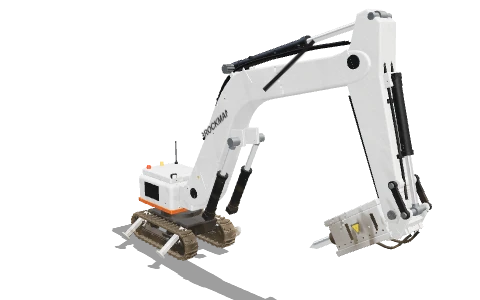
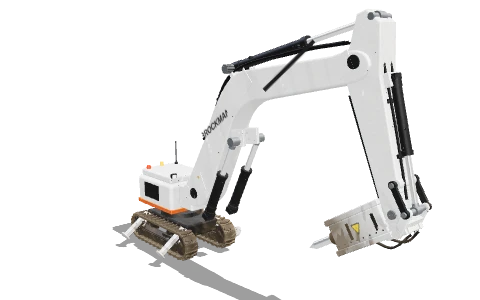
v5.5.1: bigger small machines
- DR160 robot (the $1,600 progression starter) 0.55 -> 0.8 scale, K35
  compact digger 0.48 -> 0.72, HJ40 water-cannon robot 0.6 -> 0.82, VP12
  0.8 -> 0.88, WH75 0.85 -> 0.9: none is narrower than the player now
- Machines already in a save rebuild at the new size; any that would now
  overlap a neighbour are moved to the nearest free spot on load
- Shop pictures re-rendered

Claude-Session: https://claude.ai/code/session_01EynHmZRwtARegvioyU37P7

diff --git a/src/machines.js b/src/machines.js
@@ -17,13 +17,13 @@ const EX = 'excavator';
 export const MACHINES = [
   // ---- excavators
   { id: 'tx330', tons: 30, family: EX, name: 'TORVA TX330 Demolition', brand: 'TORVA', model: 'TX330', icon: '🦾', desc: '30 t demolition excavator with a rotating sorting grapple.', scale: 1, paint: 0xf2b200, under: 'steel', cab: 'cab', boom: 'mono', attach: 'grapple', speed: 2.6 },
-  { id: 'k35', tons: 3.5, family: EX, name: 'KESTREL K35 Mini', brand: 'KESTREL', model: 'K35', icon: '🐣', desc: 'Zero-tail mini digger: rubber tracks, canopy, dozer blade, swing-post boom. Fits inside houses.', scale: 0.48, paint: 0xff7300, under: 'rubber', cab: 'canopy', boom: 'mono', attach: 'minibucket', blade: true, zeroTail: true, mini: true, speed: 2.2 },
+  { id: 'k35', tons: 3.5, family: EX, name: 'KESTREL K35 Mini', brand: 'KESTREL', model: 'K35', icon: '🐣', desc: 'Zero-tail compact digger: rubber tracks, canopy, dozer blade, swing-post boom. Small enough to work inside houses.', scale: 0.72, paint: 0xff7300, under: 'rubber', cab: 'canopy', boom: 'mono', attach: 'minibucket', blade: true, zeroTail: true, mini: true, speed: 2.2 },
   { id: 'hr450', tons: 46, family: EX, name: 'VANTOR HR450 High Reach', brand: 'VANTOR', model: 'HR450', icon: '🦒', desc: 'Long-reach demolition machine, tilting cab, shear on a 15 m arm.', scale: 1.1, paint: 0xefefea, accent: 0xc0261b, under: 'steel', gauge: 1.42, cab: 'tilt', boom: 'long', stickLen: 5.2, attach: 'shear', speed: 1.6, heavy: true },
   { id: 'mw180', tons: 18, family: EX, name: 'MERIDIAN MW180 Wheeled', brand: 'MERIDIAN', model: 'MW180', icon: '🛞', desc: 'Fast wheeled excavator: dual tyres, outriggers, dozer blade, digging bucket.', scale: 0.92, paint: 0x2f9a46, accent: 0xf0f0ea, under: 'wheels', cab: 'cab', boom: 'mono', attach: 'bucket', blade: true, speed: 6.5 },
   { id: 'tx700', tons: 70, family: EX, name: 'TORVA TX700 Mass Excavator', brand: 'TORVA', model: 'TX700', icon: '🦣', desc: '70 t monster: walkways, twin stacks, ladder and a 2.4 m³ rock bucket.', scale: 1.4, paint: 0xf2b200, under: 'steel', cab: 'cab', boom: 'mono', attach: 'bigbucket', heavy: true, speed: 1.9 },
   { id: 'bx220', tons: 22, family: EX, name: 'BRUNO BX220 Breaker', brand: 'BRUNO', model: 'BX220', icon: '🔨', desc: 'Hydraulic hammer. Switch it on and it chews through walls, and through the road.', scale: 0.95, paint: 0xc41e1e, accent: 0x1b1b1b, under: 'steel', cab: 'cab', boom: 'mono', attach: 'breaker', speed: 2.4 },
   { id: 'mh24', tons: 24, family: EX, name: 'HALDEN MH24 Material Handler', brand: 'HALDEN', model: 'MH24', icon: '🐙', desc: 'Raised cab on a riser, straight boom and a five-tine orange-peel grab.', scale: 1.0, paint: 0xf4f4f0, accent: 0x1f5fa8, under: 'steel', gauge: 1.32, cab: 'elevated', boom: 'straight', stickLen: 4.0, attach: 'orangepeel', speed: 2.0 },
-  { id: 'wh75', tons: 7.5, family: EX, name: 'HALDEN WH75 Claw', brand: 'HALDEN', model: 'WH75', icon: '🦀', desc: 'Wheeled log-claw excavator with dozer blade, outriggers and a black boom. The claw grabs a whole load of blocks.', scale: 0.85, paint: 0xf06a10, accent: 0x18191b, armPaint: 0x1c1d1f, under: 'wheels', cab: 'cab', boom: 'mono', stickLen: 3.2, attach: 'claw', blade: true, speed: 6.0, paintCab: true },
+  { id: 'wh75', tons: 7.5, family: EX, name: 'HALDEN WH75 Claw', brand: 'HALDEN', model: 'WH75', icon: '🦀', desc: 'Wheeled log-claw excavator with dozer blade, outriggers and a black boom. The claw grabs a whole load of blocks.', scale: 0.9, paint: 0xf06a10, accent: 0x18191b, armPaint: 0x1c1d1f, under: 'wheels', cab: 'cab', boom: 'mono', stickLen: 3.2, attach: 'claw', blade: true, speed: 6.0, paintCab: true },
   { id: 'wh200', tons: 38, family: EX, name: 'HALDEN WH200 Big Claw', brand: 'HALDEN', model: 'WH200', icon: '🦞', desc: 'Huge wheeled material handler: raised cab, outriggers, dual tyres and a giant log claw that grabs a whole wall section of blocks in one bite.', scale: 1.12, paint: 0x6a3da6, accent: 0xf2b705, armPaint: 0x232427, under: 'wheels', cab: 'elevated', boom: 'straight', stickLen: 4.4, attach: 'claw', attachScale: 1.75, speed: 4.8 },
   { id: 'bg90', tons: 24, family: EX, name: 'TORVA BG90 Brick Grabber', brand: 'TORVA', model: 'BG90', icon: '🧱', desc: 'Dedicated block handler with a magnetic rotating clamp. Close it near some blocks and it pulls up to four of them neatly into place between the jaws, whatever way they lie, and holds them until you open it. Heavy, slow hydraulics.', scale: 0.95, paint: 0x2b63c6, accent: 0xf2b705, under: 'steel', cab: 'cab', boom: 'mono', attach: 'brickclamp', speed: 2.2, inertia: true },
   { id: 'amx', tons: 25, family: EX, name: 'AQUAMOLE AMX Amphibious', brand: 'AQUAMOLE', model: 'AMX', icon: '🦆', desc: 'Pontoon tracks so it floats. Carries a sealed water tank to fetch water from the lake.', scale: 0.95, paint: 0x18a598, accent: 0xf2f2ee, under: 'pontoon', cab: 'cab', boom: 'mono', stickLen: 3.8, attach: 'tank', amphibious: true, speed: 2.0 },
@@ -31,7 +31,7 @@ export const MACHINES = [
   { id: 'gx250', tons: 26, family: EX, name: 'GRANITE GX250 Crusher Bucket', brand: 'GRANITE', model: 'GX250', icon: '⚙', desc: 'Scoop blocks, switch the crusher on and they become coloured dust right inside the bucket.', scale: 1.0, paint: 0x3b4148, accent: 0xffc400, under: 'steel', cab: 'cab', boom: 'mono', attach: 'crusher', speed: 2.4 },
   { id: 'lc200', tons: 20, family: EX, name: 'LIMEWORKS LC200 Concrete', brand: 'LIMEWORKS', model: 'LC200', icon: '🪣', desc: 'Concrete skip. Fill it at the mixer, then open the gate over a pothole or into the paver.', scale: 0.9, paint: 0x9acb12, accent: 0x1b1b1b, under: 'steel', cab: 'cab', boom: 'mono', stickLen: 3.2, attach: 'skip', speed: 2.6 },
   { id: 'sx5', tons: 9, family: EX, name: 'ALPINA SX5 Walking Spider', brand: 'ALPINA', model: 'SX5', icon: '🕷', desc: 'Walking excavator on four legs: wheels at the back, steel claws at the front.', scale: 0.9, paint: 0xd8262b, accent: 0x222222, under: 'spider', cab: 'cab', boom: 'mono', stickLen: 3.0, attach: 'bucket', speed: 3.2 },
-  { id: 'dr160', tons: 1.6, family: EX, name: 'BROCKMAN DR160 Demolition Robot', brand: 'BROCKMAN', model: 'DR160', icon: '🤖', desc: 'Remote-controlled demolition robot with outrigger legs and a breaker. Tiny but brutal.', scale: 0.55, paint: 0xf5f5f2, accent: 0xff6a00, under: 'robot', upper: 'robot', cab: 'none', boom: 'mono', stickLen: 2.6, attach: 'breaker', speed: 1.6 },
+  { id: 'dr160', tons: 1.6, family: EX, name: 'BROCKMAN DR160 Demolition Robot', brand: 'BROCKMAN', model: 'DR160', icon: '🤖', desc: 'Remote-controlled demolition robot with outrigger legs and a breaker. Tiny but brutal.', scale: 0.8, paint: 0xf5f5f2, accent: 0xff6a00, under: 'robot', upper: 'robot', cab: 'none', boom: 'mono', stickLen: 2.6, attach: 'breaker', speed: 1.6 },
   // ---- special excavators
   { id: 'bl4', tons: 8.5, family: EX, name: 'BRAVO BL4 Backhoe Loader', brand: 'BRAVO', model: 'BL4', icon: '🚜', desc: 'Two machines in one, like the ones digging up city streets: a loader bucket on the front (T / Y raise it, Click tips it to dump) and a digging arm on the back with stabiliser legs. Quick on the road.', scale: 1, paint: 0xf3b21a, accent: 0x1d1e20, under: 'backhoe', cab: 'cab', boom: 'backhoe', stickLen: 2.5, attach: 'bucket', attachScale: 0.78, speed: 8.5 },
   { id: 'mg40', tons: 40, family: EX, name: 'HALDEN MG40 Scrap Magnet', brand: 'HALDEN', model: 'MG40', icon: '🧲', desc: 'Material handler with a huge electromagnet. Switch it on and loose blocks fly up and stick to it (up to 10), and it rips blocks right out of walls. Switch it off to drop the lot.', scale: 1.05, paint: 0x2e7d4f, accent: 0xf2c200, under: 'wheels', cab: 'elevated', boom: 'straight', stickLen: 4.0, attach: 'magnet', speed: 4.6 },
@@ -40,9 +40,9 @@ export const MACHINES = [
   { id: 'dc60', tons: 34, family: EX, name: 'GRINDA DC60 Drum Cutter', brand: 'GRINDA', model: 'DC60', icon: '🥁', desc: 'Twin spinning drums full of carbide picks. Switch them on and press into a wall or a heap of rubble: it grinds the blocks straight into coloured dust, and the dust counts as crushed.', scale: 1.05, paint: 0xe0571c, accent: 0x202124, under: 'steel', cab: 'cab', boom: 'mono', attach: 'cutter', heavy: true, speed: 2.3 },
   { id: 'rs30', tons: 30, family: EX, name: 'SAWTEK RS30 Rock Saw', brand: 'SAWTEK', model: 'RS30', icon: '🪚', desc: 'A 2-metre diamond saw blade on the arm. Spin it up and slice through walls: every block the blade passes through is cut clean out, so you can cut whole wall sections loose.', scale: 1, paint: 0x1f8fd6, accent: 0x15171a, under: 'steel', cab: 'cab', boom: 'mono', attach: 'saw', speed: 2.6 },
   { id: 'ad20', tons: 20, family: EX, name: 'TORQUE AD20 Auger Drill', brand: 'TORQUE', model: 'AD20', icon: '🌪', desc: 'A giant spinning auger on a wheeled excavator. Bore straight through walls, or drill new potholes into the road in seconds.', scale: 0.95, paint: 0xc8d81e, accent: 0x1b1b1b, under: 'wheels', cab: 'cab', boom: 'mono', attach: 'auger', blade: true, speed: 6.0 },
-  { id: 'vp12', tons: 14, family: EX, name: 'PLATO VP12 Plate Compactor', brand: 'PLATO', model: 'VP12', icon: '〰', desc: 'A vibrating compaction plate on the arm. Press it on a filled pothole to compact it to a perfect finish, or hold it against a building to shake the blocks loose. Rubble nearby hops around.', scale: 0.8, paint: 0x3fa34d, accent: 0x18191b, under: 'rubber', cab: 'cab', boom: 'mono', attach: 'plate', speed: 2.4 },
+  { id: 'vp12', tons: 14, family: EX, name: 'PLATO VP12 Plate Compactor', brand: 'PLATO', model: 'VP12', icon: '〰', desc: 'A vibrating compaction plate on the arm. Press it on a filled pothole to compact it to a perfect finish, or hold it against a building to shake the blocks loose. Rubble nearby hops around.', scale: 0.88, paint: 0x3fa34d, accent: 0x18191b, under: 'rubber', cab: 'cab', boom: 'mono', attach: 'plate', speed: 2.4 },
   { id: 'fk18', tons: 18, family: EX, name: 'MERIDIAN FK18 Fork Handler', brand: 'MERIDIAN', model: 'FK18', icon: '🍴', desc: 'Wheeled excavator with pallet forks. Lower the forks next to a pile of blocks and lock: up to 8 blocks snap into a neat stack on the tines. Perfect for carrying pressed blocks to your building plot.', scale: 0.92, paint: 0xd9dde0, accent: 0x2f9a46, under: 'wheels', cab: 'cab', boom: 'mono', attach: 'forks', blade: true, speed: 6.5 },
-  { id: 'hj40', tons: 4, family: EX, name: 'AQUAJET HJ40 Water Cannon', brand: 'AQUAJET', model: 'HJ40', icon: '💦', desc: 'Remote hydrodemolition robot: a high-pressure water jet that blasts blocks out of walls from 14 m away and sends loose ones flying. Aim it into the mixer to add water.', scale: 0.6, paint: 0x1aa6c9, accent: 0xf2f2ee, under: 'robot', upper: 'robot', cab: 'none', boom: 'mono', stickLen: 2.8, attach: 'jet', speed: 1.8 },
+  { id: 'hj40', tons: 4, family: EX, name: 'AQUAJET HJ40 Water Cannon', brand: 'AQUAJET', model: 'HJ40', icon: '💦', desc: 'Remote hydrodemolition robot: a high-pressure water jet that blasts blocks out of walls from 14 m away and sends loose ones flying. Aim it into the mixer to add water.', scale: 0.82, paint: 0x1aa6c9, accent: 0xf2f2ee, under: 'robot', upper: 'robot', cab: 'none', boom: 'mono', stickLen: 2.8, attach: 'jet', speed: 1.8 },
   // ---- road & site machines
   { id: 'cr64', tons: 9, family: 'roller', name: 'TORVA CR64 Tandem Roller', brand: 'TORVA', model: 'CR64', icon: '🛞', desc: 'Twin vibrating steel drums. Roll over a cement-filled pothole to compact it to a perfect finish.', scale: 1.0, paint: 0xf2b200, speed: 3.5 },
   { id: 'ap600', tons: 18, family: 'paver', name: 'VELOTA AP600 Paver', brand: 'VELOTA', model: 'AP600', icon: '🛣', desc: 'Pour cement into its hopper, switch the flow on and drive over potholes to pave them.', scale: 1.0, paint: 0xf5c400, accent: 0x222222, speed: 2.2 },

diff --git a/src/main.js b/src/main.js
@@ -478,6 +478,20 @@ class Game {
     m.destroy(); this.machines.delete(id);
   }
 
+  unstackMachines() {
+    const list = [...this.machines.values()];
+    for (const m of list) {
+      const clash = list.some((o) => o !== m && this.machines.has(o.id) && Math.hypot(o.pos.x - m.pos.x, o.pos.z - m.pos.z) < (o.radius * o.s + m.radius * m.s) * 0.7);
+      if (!clash) continue;
+      this.machines.delete(m.id); // not in its own way while looking
+      const spot = this.findMachineSpot(m.pos.clone(), m.spec);
+      this.machines.set(m.id, m);
+      if (!spot) continue;
+      m.root.position.x = spot.x; m.root.position.z = spot.z;
+      if (m.pose) m.pose();
+      if (m.syncBodies) m.syncBodies(true);
+    }
+  }
   findMachineSpot(near, spec) {
     const r = ({ crane: 4.6, roller: 3.0, paver: 3.0, loader: 4.2, dozer: 3.4, dumper: 2.4, truck: 5.2 }[spec.family] || (spec.under === 'pontoon' ? 4.2 : 2.8)) * spec.scale;
     const terrain = this.env.terrainCollider;
@@ -654,6 +668,8 @@ class Game {
       m.setPayload(s.payload[0], s.payload[1], s.payload[2], s.payload[3], s.payload[4]);
       if (!forSave) m.driver = s.driver;
     }
+    // machines that grew since the save was made (bigger models) can now overlap a neighbour: move them to free space
+    if (!mirror) this.unstackMachines();
     // re-attach held pieces on the authority side
     if (!mirror) for (const p of this.demo.pieces) if (p.state === HELD) {
       const m = this.machines.get(p.holder); if (!m || !p.holdLocal) continue;

diff --git a/public/index.html b/public/index.html
@@ -31,7 +31,7 @@
       <div id="titleMsg" class="title-msg"></div>
     </div>
   </div>
-  <div class="title-foot"><span>Smash buildings · crush the rubble · mix cement · fix the road</span><span class="ver">v5.5.0</span></div>
+  <div class="title-foot"><span>Smash buildings · crush the rubble · mix cement · fix the road</span><span class="ver">v5.5.1</span></div>
 </div>
 
 <!-- HUD -->
